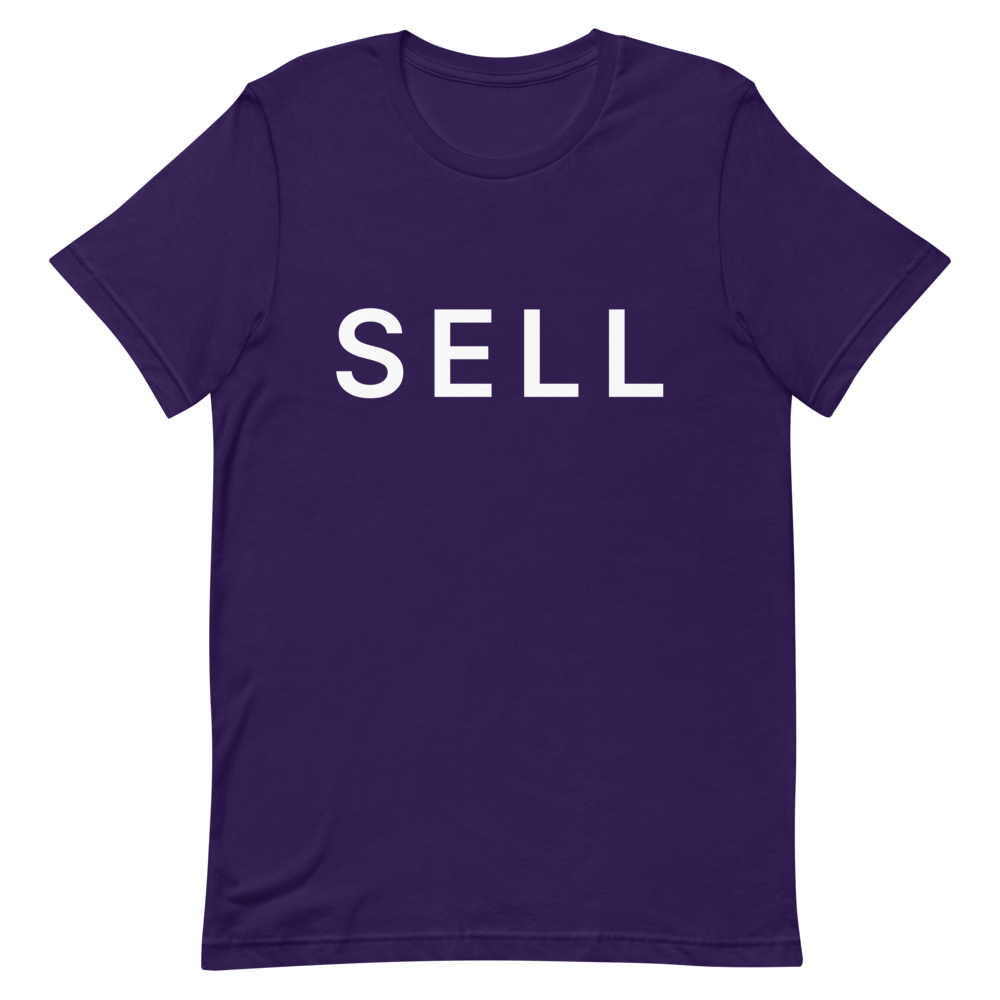
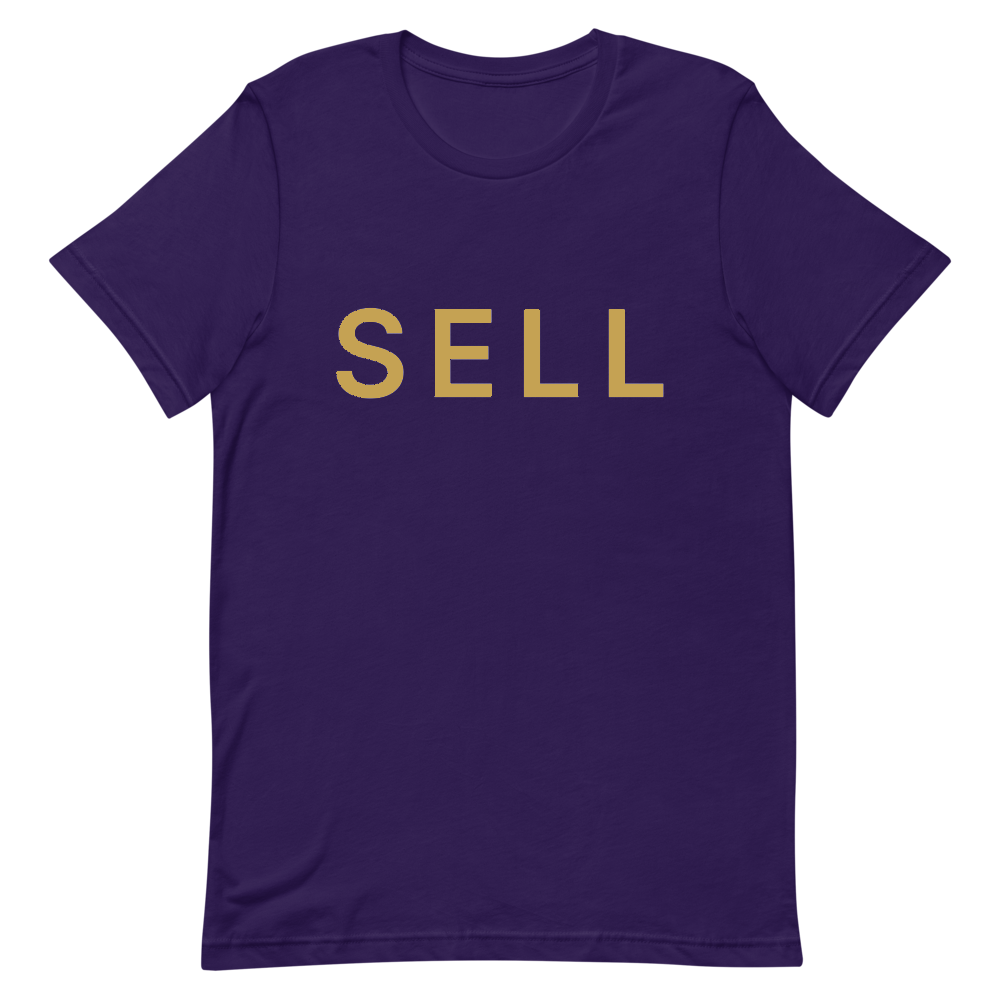
Print Ravens tee lettering in metallic gold

Changed region(s): [[0.527, 0.31, 0.682, 0.403], [0.434, 0.31, 0.496, 0.403], [0.341, 0.31, 0.403, 0.403]]

diff --git a/components/ProductPage.tsx b/components/ProductPage.tsx
@@ -73,8 +73,8 @@ export default function ProductPage({ slug, style }: { slug: string; style: Styl
   const related = [...sameCity, ...TEAMS.filter((t) => t.division === team.division && t.market !== team.market)].slice(0, 4);
   if (!stylesFor(team).includes(style)) notFound();
   const noun = STYLE[style].label.toLowerCase();
-  const printColor = team.slug === "nfl-cincinnati" && style === "tee" ? "black" : team.slug === "nfl-cleveland" && style === "tee" ? "orange" : PRINT_COLOR[style];
-  const printInk = printColor === "black" ? "#000000" : printColor === "orange" ? "#FF3C00" : STYLE[style].ink;
+  const printColor = team.slug === "nfl-cincinnati" && style === "tee" ? "black" : team.slug === "nfl-cleveland" && style === "tee" ? "orange" : team.slug === "nfl-baltimore" && style === "tee" ? "metallic gold" : PRINT_COLOR[style];
+  const printInk = printColor === "black" ? "#000000" : printColor === "orange" ? "#FF3C00" : printColor === "metallic gold" ? "#C5A253" : STYLE[style].ink;
 
   return (
     <div className="wrap">
@@ -112,7 +112,7 @@ export default function ProductPage({ slug, style }: { slug: string; style: Styl
               <summary>Why SELL</summary>
               <div className="content">
                 Modeled on the shirt Oakland fans wore to the 2023 reverse boycott.{" "}
-                {WHY[style] ?? (team.slug === "nfl-cincinnati" && style === "tee" ? "One word in black on Bengals orange." : team.slug === "nfl-cleveland" && style === "tee" ? "One word in orange on Browns brown." : "One word in white on your team colors.")} It says what a lot of {team.market} fans are thinking &mdash; loud enough to be
+                {WHY[style] ?? (team.slug === "nfl-cincinnati" && style === "tee" ? "One word in black on Bengals orange." : team.slug === "nfl-cleveland" && style === "tee" ? "One word in orange on Browns brown." : team.slug === "nfl-baltimore" && style === "tee" ? "One word in metallic gold on Ravens purple." : "One word in white on your team colors.")} It says what a lot of {team.market} fans are thinking &mdash; loud enough to be
                 seen from the owner&rsquo;s suite. <Link href="/story" style={{ textDecoration: "underline" }}>Read the story.</Link>
               </div>
             </details>

diff --git a/app/api/print/[slug]/route.ts b/app/api/print/[slug]/route.ts
@@ -6,6 +6,6 @@ export async function GET(_req: Request, { params }: { params: Promise<{ slug: s
   const slug = (await params).slug.replace(/\.png$/, "");
   const team = getTeam(slug);
   if (!team) return new Response("Not found", { status: 404 });
-  const ink = slug === "nfl-cincinnati" ? "#000000" : slug === "nfl-cleveland" ? "#FF3C00" : undefined;
+  const ink = slug === "nfl-cincinnati" ? "#000000" : slug === "nfl-cleveland" ? "#FF3C00" : slug === "nfl-baltimore" ? "#C5A253" : undefined;
   return printFile("tee", undefined, ink);
 }

diff --git a/lib/art.ts b/lib/art.ts
@@ -1,4 +1,4 @@
 // Bump when the shirt artwork or photos change: Printful caches print files by
 // URL and next/image caches optimized photos by URL, so a new number makes
 // both fetch fresh copies.
-export const ART_VERSION = 16;
+export const ART_VERSION = 17;
